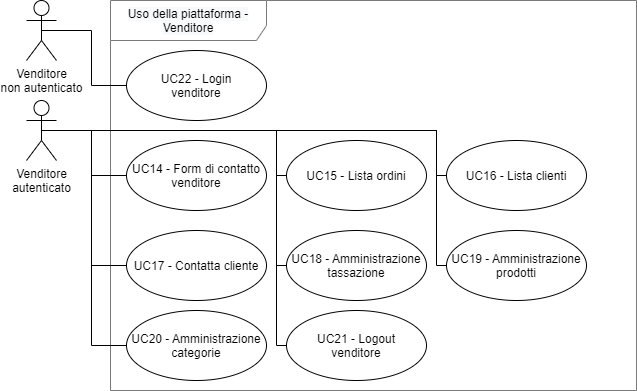
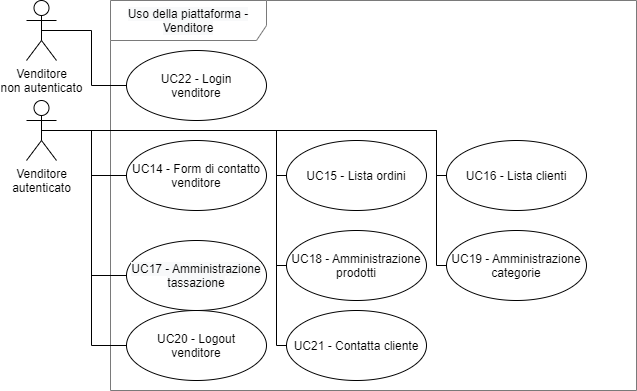
Modifiche

diff --git a/Esterni/AnalisiDeiRequisiti/res/sections/casi_uso/casi_uso_venditore.tex b/Esterni/AnalisiDeiRequisiti/res/sections/casi_uso/casi_uso_venditore.tex
@@ -24,7 +24,7 @@
     \begin{enumerate}
         \item il venditore visualizza tutta la lista degli ordini effettuati dai clienti;
          \item il venditore può modificare lo stato di un ordine \hyperref[UC15.1]{UC15.1};
-        \item il venditore può contattare il cliente che ha effettuato un determinato ordine \hyperref[UC17]{UC17};
+        \item il venditore può contattare il cliente che ha effettuato un determinato ordine \hyperref[UC22]{UC22};
         \item può stampare la bolla di un ordine \hyperref[UC15.2]{UC15.2};
         \item può visualizzare i dettagli di un determinato ordine \hyperref[UC15.3]{UC15.3}; 
     \end{enumerate}
@@ -83,12 +83,95 @@
     \item \textbf{Scenario principale:}
     \begin{enumerate}
         \item il venditore visualizza la lista;
-         \item il venditore può contattare un cliente \hyperref[UC17]{UC17};
+         \item il venditore può contattare un cliente \hyperref[UC22]{UC22};
     \end{enumerate}
 \end{itemize}
 
-\subsection{UC17 - Contatta cliente}
-\label{UC17}
+\subsection{UC17 - Amministrazione tasse}
+\begin{itemize}
+    \item \textbf{Attore Primario:} 
+    \item \textbf{Descrizione:}
+    \item \textbf{Precondizione:}
+    \item \textbf{Input:}
+    \item \textbf{Postcondizione:}
+    \item \textbf{Scenario principale:}
+    \begin{enumerate}
+        \item 
+    \end{enumerate}
+    \item \textbf{Inclusioni:}
+    \begin{itemize}
+        \item
+    \end{itemize}
+\end{itemize}
+
+\subsection{UC18 - Amministrazione prodotti}
+\begin{itemize}
+    \item \textbf{Attore Primario:} 
+    \item \textbf{Descrizione:}
+    \item \textbf{Precondizione:}
+    \item \textbf{Input:}
+    \item \textbf{Postcondizione:}
+    \item \textbf{Scenario principale:}
+    \begin{enumerate}
+        \item 
+    \end{enumerate}
+    \item \textbf{Inclusioni:}
+    \begin{itemize}
+        \item
+    \end{itemize}
+\end{itemize}
+
+\subsection{UC19 - Amministrazione categorie}
+\begin{itemize}
+    \item \textbf{Attore Primario:} 
+    \item \textbf{Descrizione:}
+    \item \textbf{Precondizione:}
+    \item \textbf{Input:}
+    \item \textbf{Postcondizione:}
+    \item \textbf{Scenario principale:}
+    \begin{enumerate}
+        \item 
+    \end{enumerate}
+    \item \textbf{Inclusioni:}
+    \begin{itemize}
+        \item
+    \end{itemize}
+\end{itemize}
+\subsection{UC20 - Logout venditore}
+\begin{itemize}
+    \item \textbf{Attore Primario:} 
+    \item \textbf{Descrizione:}
+    \item \textbf{Precondizione:}
+    \item \textbf{Input:}
+    \item \textbf{Postcondizione:}
+    \item \textbf{Scenario principale:}
+    \begin{enumerate}
+        \item 
+    \end{enumerate}
+    \item \textbf{Inclusioni:}
+    \begin{itemize}
+        \item
+    \end{itemize}
+\end{itemize}
+\subsection{UC21 - Login venditore}
+\begin{itemize}
+    \item \textbf{Attore Primario:} 
+    \item \textbf{Descrizione:}
+    \item \textbf{Precondizione:}
+    \item \textbf{Input:}
+    \item \textbf{Postcondizione:}
+    \item \textbf{Scenario principale:}
+    \begin{enumerate}
+        \item 
+    \end{enumerate}
+    \item \textbf{Inclusioni:}
+    \begin{itemize}
+        \item
+    \end{itemize}
+\end{itemize}
+
+\subsection{UC22 - Contatta cliente}
+\label{UC22}
 \begin{itemize}
     \item \textbf{Attore Primario:} venditore autenticato;
     \item \textbf{Descrizione:} il venditore deve contattare il cliente;
@@ -103,88 +186,5 @@
     \item \textbf{Inclusioni:}
     \begin{itemize}
         \item si apre il form di contatto del venditore \hyperref[UC14]{UC14};
-    \end{itemize}
-\end{itemize}
-
-\subsection{UC18 - Amministrazione tasse}
-\begin{itemize}
-    \item \textbf{Attore Primario:} 
-    \item \textbf{Descrizione:}
-    \item \textbf{Precondizione:}
-    \item \textbf{Input:}
-    \item \textbf{Postcondizione:}
-    \item \textbf{Scenario principale:}
-    \begin{enumerate}
-        \item 
-    \end{enumerate}
-    \item \textbf{Inclusioni:}
-    \begin{itemize}
-        \item
-    \end{itemize}
-\end{itemize}
-
-\subsection{UC19 - Amministrazione prodotti}
-\begin{itemize}
-    \item \textbf{Attore Primario:} 
-    \item \textbf{Descrizione:}
-    \item \textbf{Precondizione:}
-    \item \textbf{Input:}
-    \item \textbf{Postcondizione:}
-    \item \textbf{Scenario principale:}
-    \begin{enumerate}
-        \item 
-    \end{enumerate}
-    \item \textbf{Inclusioni:}
-    \begin{itemize}
-        \item
-    \end{itemize}
-\end{itemize}
-
-\subsection{UC20 - Amministrazione categorie}
-\begin{itemize}
-    \item \textbf{Attore Primario:} 
-    \item \textbf{Descrizione:}
-    \item \textbf{Precondizione:}
-    \item \textbf{Input:}
-    \item \textbf{Postcondizione:}
-    \item \textbf{Scenario principale:}
-    \begin{enumerate}
-        \item 
-    \end{enumerate}
-    \item \textbf{Inclusioni:}
-    \begin{itemize}
-        \item
-    \end{itemize}
-\end{itemize}
-\subsection{UC21 - Logout venditore}
-\begin{itemize}
-    \item \textbf{Attore Primario:} 
-    \item \textbf{Descrizione:}
-    \item \textbf{Precondizione:}
-    \item \textbf{Input:}
-    \item \textbf{Postcondizione:}
-    \item \textbf{Scenario principale:}
-    \begin{enumerate}
-        \item 
-    \end{enumerate}
-    \item \textbf{Inclusioni:}
-    \begin{itemize}
-        \item
-    \end{itemize}
-\end{itemize}
-\subsection{UC22 - Login venditore}
-\begin{itemize}
-    \item \textbf{Attore Primario:} 
-    \item \textbf{Descrizione:}
-    \item \textbf{Precondizione:}
-    \item \textbf{Input:}
-    \item \textbf{Postcondizione:}
-    \item \textbf{Scenario principale:}
-    \begin{enumerate}
-        \item 
-    \end{enumerate}
-    \item \textbf{Inclusioni:}
-    \begin{itemize}
-        \item
     \end{itemize}
 \end{itemize}
